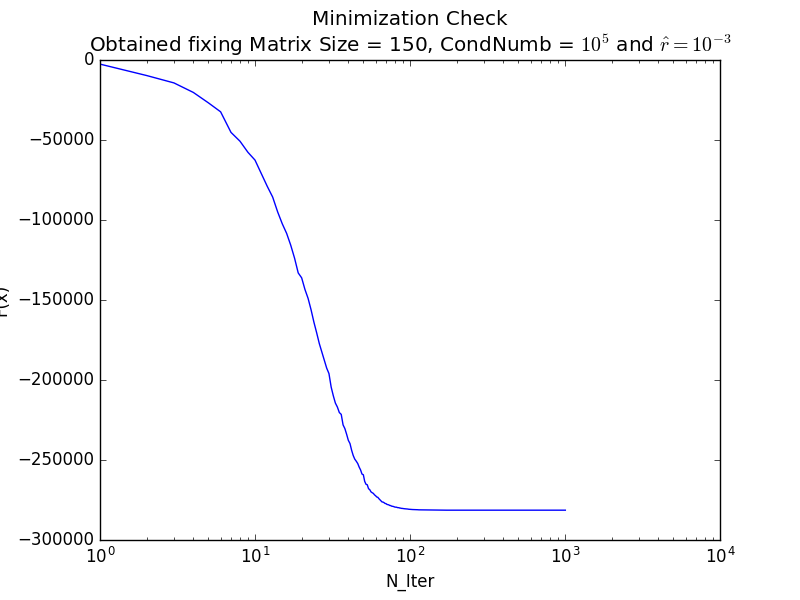
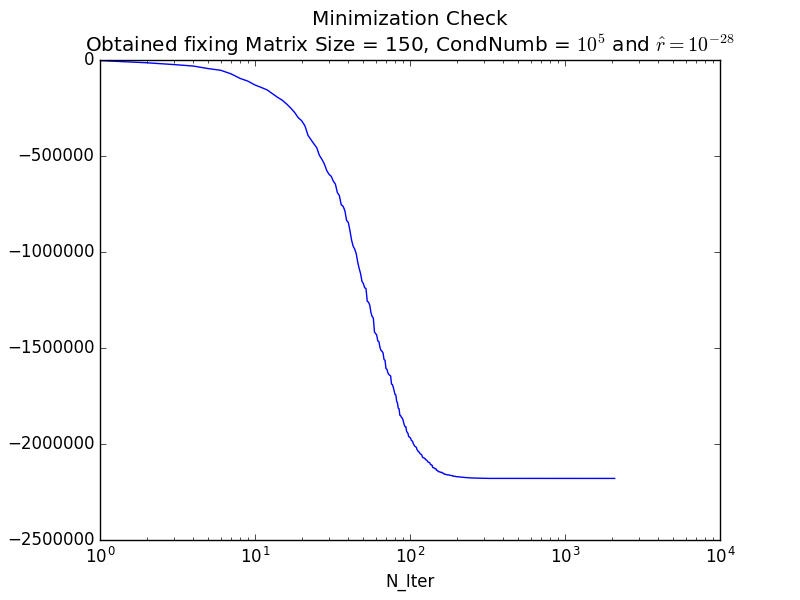
Some changes

diff --git a/D2/src/system_solvers.c b/D2/src/system_solvers.c
@@ -130,6 +130,11 @@ double* mat_vec_prod(double* A, double* x, int N){
   return ret;
 }
 
+/* This function perform some inner checks. The first is the calculation */
+/* of the minimization of the functional (the last optional step of the D1 assignment). */
+/* The second is the calculation of the explicit error in the conjugate gradient algorithm */
+/* as required in the D2 assignment. Do **make x** and **make plot** into **D2** directory */
+/* will produces the rispective plots in the **results** folder */
 void inner_checks(double* A, double* x, double* b, double prec, int N, int* n_iter){
 
   double* r; /* residue error */
@@ -139,7 +144,7 @@ void inner_checks(double* A, double* x, double* b, double prec, int N, int* n_it
   double *r_old;
   double *p;
   double r_hat_square, alpha, beta, Fx;
-  double r_e;
+  double r_e, mod_b_square;
   int j;
   FILE* min_check;
   FILE* explicit;
@@ -158,10 +163,11 @@ void inner_checks(double* A, double* x, double* b, double prec, int N, int* n_it
     r_old[j] = b[j];
     p[j] = b[j];
   }
-
+  mod_b_square = vector_prod(b, b, N);
+  
   *n_iter = 0;
   r_hat_square = vector_prod(r_old, r_old, N);
-  r_hat_square /= vector_prod(b, b, N);
+  r_hat_square /= mod_b_square;
 
   while(r_hat_square > prec * prec){
     t = mat_vec_prod(A, p, N);
@@ -181,7 +187,7 @@ void inner_checks(double* A, double* x, double* b, double prec, int N, int* n_it
       r_old[j] = r[j];
     }
     r_hat_square = vector_prod(r_old, r_old, N);
-    r_hat_square /= vector_prod(b, b, N);
+    r_hat_square /= mod_b_square; //vector_prod(b, b, N);
 
     (*n_iter)++;
 
@@ -201,9 +207,9 @@ void inner_checks(double* A, double* x, double* b, double prec, int N, int* n_it
       r_explicit[j] = b[j] - t[j];
 
     // Compute the modulus of the r_explicit vector and store it
-    r_e = pow(vector_prod(r_explicit, r_explicit, N), 0.5);
+    r_e = pow(vector_prod(r_explicit, r_explicit, N) / mod_b_square, 0.5);
 
-fprintf(explicit, "%d\t%lg\t%lg\n", *n_iter, r_e, pow(vector_prod(r, r, N), 0.5));
+    fprintf(explicit, "%d\t%lg\t%lg\n", *n_iter, r_e, pow(vector_prod(r, r, N) / mod_b_square, 0.5));
     
     free(t);
     free(tmp);

diff --git a/D2/src/plot.py b/D2/src/plot.py
@@ -1,9 +1,9 @@
 import numpy as np
 import matplotlib.pyplot as plt
 
-# min_files = ["results/explicit_res.dat", "results/min_check_conj.dat"]
+min_files = ["results/explicit_res.dat", "results/min_check_conj.dat"]
 # notice that the main.x produces files with extension .dat, but on github I store only ".safe" copy of this files
-min_files = ["results/explicit_res.safe", "results/min_check_conj.safe"]
+# min_files = ["results/explicit_res.safe", "results/min_check_conj.safe"]
 
 plt.figure()
 
@@ -13,18 +13,19 @@ for nfile in min_files:
     Fx = data[:,1]
     if nfile == min_files[0]:
         R_inn = data[:,2]
-        plt.loglog(n_iter, Fx, label = "$|r^{expl}|$")
-        plt.loglog(n_iter, R_inn, label = "$|r^{inn}|$")
-        plt.title("Explicit Error Check\nObtained fixing Matrix Size = 150, CondNumb = $10^5$ and $\hat{r} = 10^{-3}$")
+        plt.loglog(n_iter, Fx, label = "explicit")
+        plt.loglog(n_iter, R_inn, label = "implicit")
+        plt.title("Explicit Error Check\nObtained fixing Matrix Size = 150, CondNumb = $10^5$ and $\hat{r} = 10^{-28}$")
         plt.xlabel("N_Iter")
-        plt.ylabel("$|r|$")
+        plt.ylabel("$|r|/|b|$")
+        plt.legend()
         # plt.show()
         plt.savefig("results/err_check.png")
         plt.close("all")
         
     elif nfile == min_files[1]:
         plt.semilogx(n_iter, Fx)
-        plt.title("Minimization Check\nObtained fixing Matrix Size = 150, CondNumb = $10^5$ and $\hat{r} = 10^{-3}$")
+        plt.title("Minimization Check\nObtained fixing Matrix Size = 150, CondNumb = $10^5$ and $\hat{r} = 10^{-28}$")
         plt.xlabel("N_Iter")
         plt.ylabel("F(x)")
         # plt.show()

diff --git a/D2/src/main.c b/D2/src/main.c
@@ -57,55 +57,10 @@ int main(int argc, char** argv){
   free(sol);
   free(check_sol);
 
-  /* condition number scaling */
-  /* conj = fopen("results/first_scaling.dat", "w"); */
-
-  /* for(j = 0; j < n_rep; j++){ */
-  /*   for(N = 10; N < 501; N += 10){ */
-  /*     A = (double*) malloc(N * N * sizeof(double)); */
-  /*     b = (double*) malloc(N * sizeof(double)); */
-  /*     sol = (double*) malloc(N * sizeof(double)); */
-      
-  /*     fill_defpos_symm_matrix(A, cond_numb, N); */
-  /*     fill_source(b, 2., 0.5, N); */
-      
-  /*     conj_grad_alg(A, sol, b, r_hat, N, &n_iter); */
-      
-  /*     fprintf(conj, "%d\t%d\n", N, n_iter); */
-      
-  /*     free(A); */
-  /*     free(b); */
-  /*     free(sol); */
-  /*   } */
-  /* } */
-
-  /* fclose(conj); */
-
-  /* N = 500; */
-  /* A = (double*) malloc(N * N * sizeof(double)); */
-  /* b = (double*) malloc(N * sizeof(double)); */
-  /* sol = (double*) malloc(N * sizeof(double)); */
-  
-  /* conj = fopen("results/sec_scaling.dat", "w"); */
-
-  /* for(j = 0; j < n_rep; j++){ */
-  /*   for(cond_numb = 1250; cond_numb < 62501; cond_numb += 1250){ */
-      
-  /*     fill_defpos_symm_matrix(A, cond_numb, N); */
-  /*     fill_source(b, 2., 0.5, N); */
-      
-  /*     conj_grad_alg(A, sol, b, r_hat, N, &n_iter); */
-      
-  /*     fprintf(conj, "%lg\t%d\n", cond_numb, n_iter); */
-      
-  /*   } */
-  /* } */
-
-  /* fclose(conj); */
 
   printf("\n\tstarting INNER CHECKS\n");
   N = 150;
-  cond_numb = 10000;
+  cond_numb = 1e5;
   r_hat = 1.e-28;
   A = (double*) malloc(N * N * sizeof(double));
   b = (double*) malloc(N * sizeof(double));
